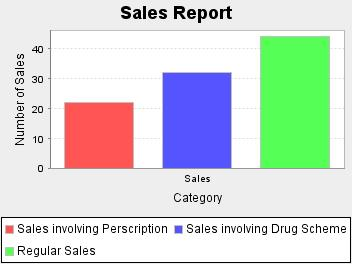
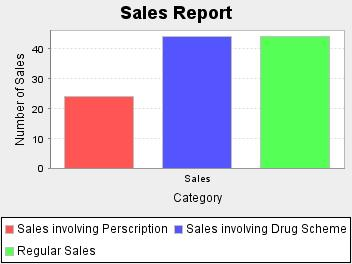
Charts Fixed

Changed region(s): [[0.4375, 0.1212, 0.6562, 0.303], [0.1562, 0.3636, 0.4062, 0.3939]]

diff --git a/src/com/psview/SalesReportPanel.java b/src/com/psview/SalesReportPanel.java
@@ -20,14 +20,19 @@ public class SalesReportPanel extends JPanel{
     {
         this.setLayout(null);        
         //Initializing
+       // initializeImages();
         pieImage = new ImageIcon(PharmacyConstants.pieChartFilePath);
+        pieImage.getImage().flush();
         pieLabel = new JLabel(pieImage);
         barImage = new ImageIcon(PharmacyConstants.barChartFilePath);
+         barImage.getImage().flush();
         barLabel = new JLabel(barImage);   
         backToMainMenuBtn = new JButton("Back to Main Menu");
         img = new ImageIcon(PharmacyConstants.pharmacyIconFilePath);
         logo = new JLabel();
         logo.setIcon(img);
+       //new create
+        
         
       
         //Setting Position      
@@ -42,6 +47,22 @@ public class SalesReportPanel extends JPanel{
         this.add(backToMainMenuBtn);
         this.add(logo);
     }
+
+    /*
+    public void initializeImages(){
+        barLabel = new JLabel();
+        pieLabel = new JLabel();
+        barLabel.setIcon(null);
+        pieLabel.setIcon(null);
+        pieLabel.revalidate();
+        barLabel.revalidate();
+         pieImage = new ImageIcon(PharmacyConstants.pieChartFilePath);
+         barImage = new ImageIcon(PharmacyConstants.barChartFilePath);
+         barLabel.setIcon(barImage);
+         pieLabel.setIcon(pieImage);
+         barLabel.repaint();
+         pieLabel.repaint();
+    }*/
     public void addBackToMainMenuListener(ActionListener listenerForBackToMainMenuBtn){
         backToMainMenuBtn.addActionListener(listenerForBackToMainMenuBtn);
     }

diff --git a/src/com/pscontroller/SalesReportController.java b/src/com/pscontroller/SalesReportController.java
@@ -14,11 +14,13 @@ public class SalesReportController {
     {
         this.salesReportView = salesReportView;
         this.salesReportModel = salesReportModel;
-     
-        salesReportView.displaySalesReport();
-        salesReportModel.initializeSubjectsAndObservers();
         
+        this.salesReportModel.initializeSubjectsAndObservers();
+        this.salesReportView.displaySalesReport();
+  
+        //this.salesReportView.initializeCharts();
         this.salesReportView.addBackToMainMenuFromSalesReportsListener(new BackToMainMenuListener());
+        
         
     }
     

diff --git a/src/com/pscontroller/MainMenuController.java b/src/com/pscontroller/MainMenuController.java
@@ -69,6 +69,7 @@ public class MainMenuController {
            SalesReportModel salesReportModel = new SalesReportModel(mainMenuModel.getDataBase());                    
             try {
                 SalesReportController salesReportController = new SalesReportController(mainMenuView,salesReportModel);
+                
             } catch (IOException ex) {
                 Logger.getLogger(MainMenuController.class.getName()).log(Level.SEVERE, null, ex);
             }

diff --git a/src/com/psmodel/SalesReportModel.java b/src/com/psmodel/SalesReportModel.java
@@ -16,9 +16,8 @@ public class SalesReportModel {
     }
     
     public void initializeSubjectsAndObservers(){
-        
+        System.out.println("initializin observer");
         int [] salesDetailsArray = dbm.getSalesDetailsArray();
-        
         //Initialize Subject
         SalesDetails salesDetails =  new SalesDetails();
         int medicalCardSales = salesDetailsArray[0];

diff --git a/src/com/psview/PharmacyView.java b/src/com/psview/PharmacyView.java
@@ -508,4 +508,8 @@ public void setOrderInvisible(){
     public void dontShowForProduct(){
         modifyPanel.dontShowButtonForProduct();
     }
+    /*
+    public void initializeCharts(){
+        salesReportPanel.initializeImages();
+    }*/
 }

diff --git a/src/com/psdb/DataBaseManagment.java b/src/com/psdb/DataBaseManagment.java
@@ -343,6 +343,7 @@ public class DataBaseManagment {
     }
     
     public int [] getSalesDetailsArray(){
+        readSalesDetails();
         return salesDetailsArray;
     }
     

diff --git a/src/com/psmodel/OrderModel.java b/src/com/psmodel/OrderModel.java
@@ -142,5 +142,6 @@ public class OrderModel {
            num[2]++;
         }
        dbm.updateSales(num);
+       
    }
 }  
